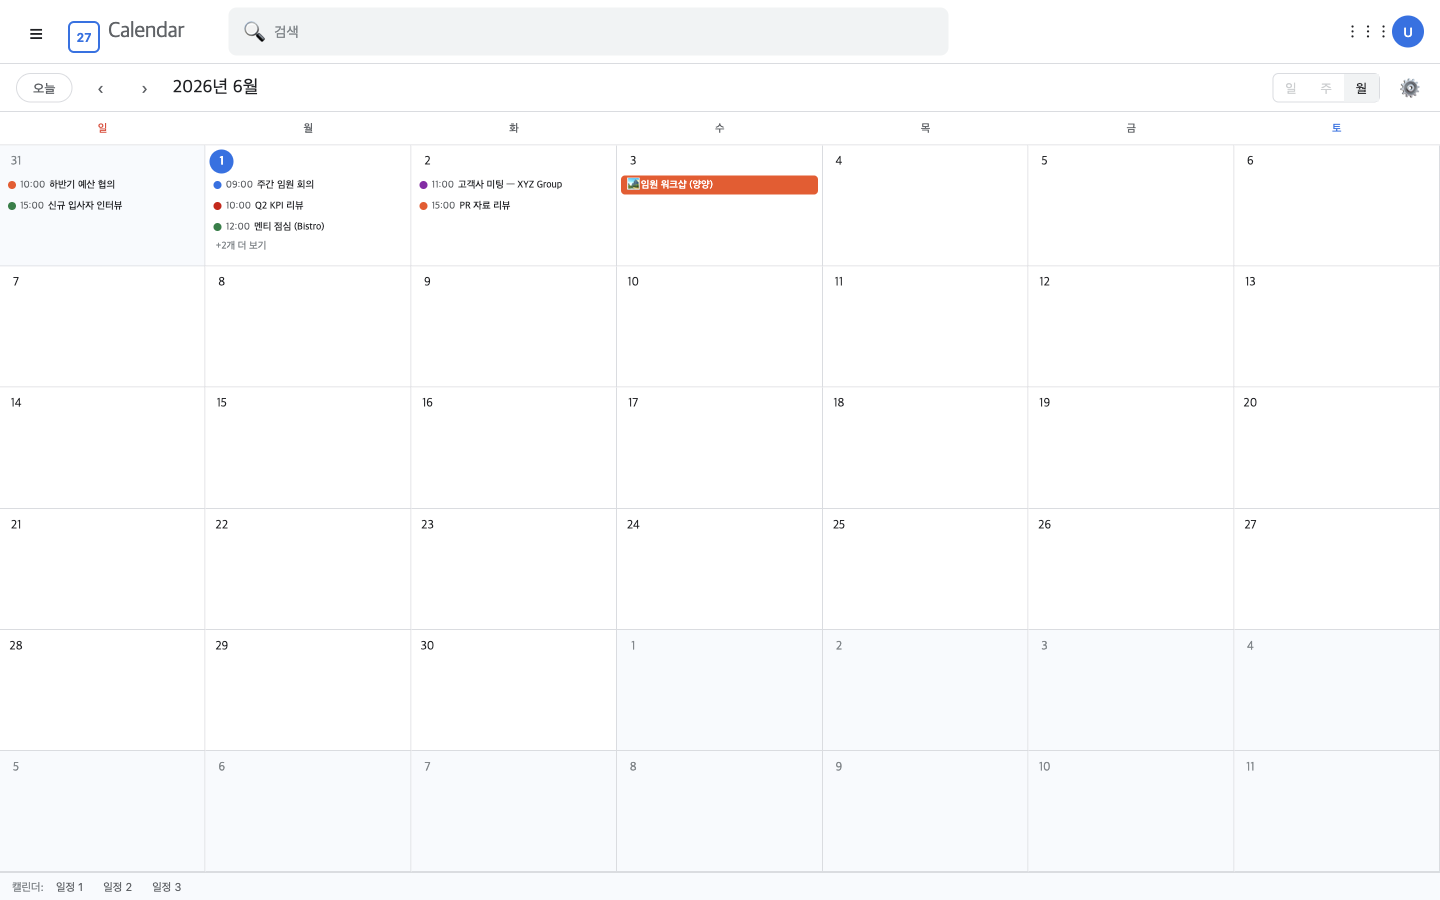
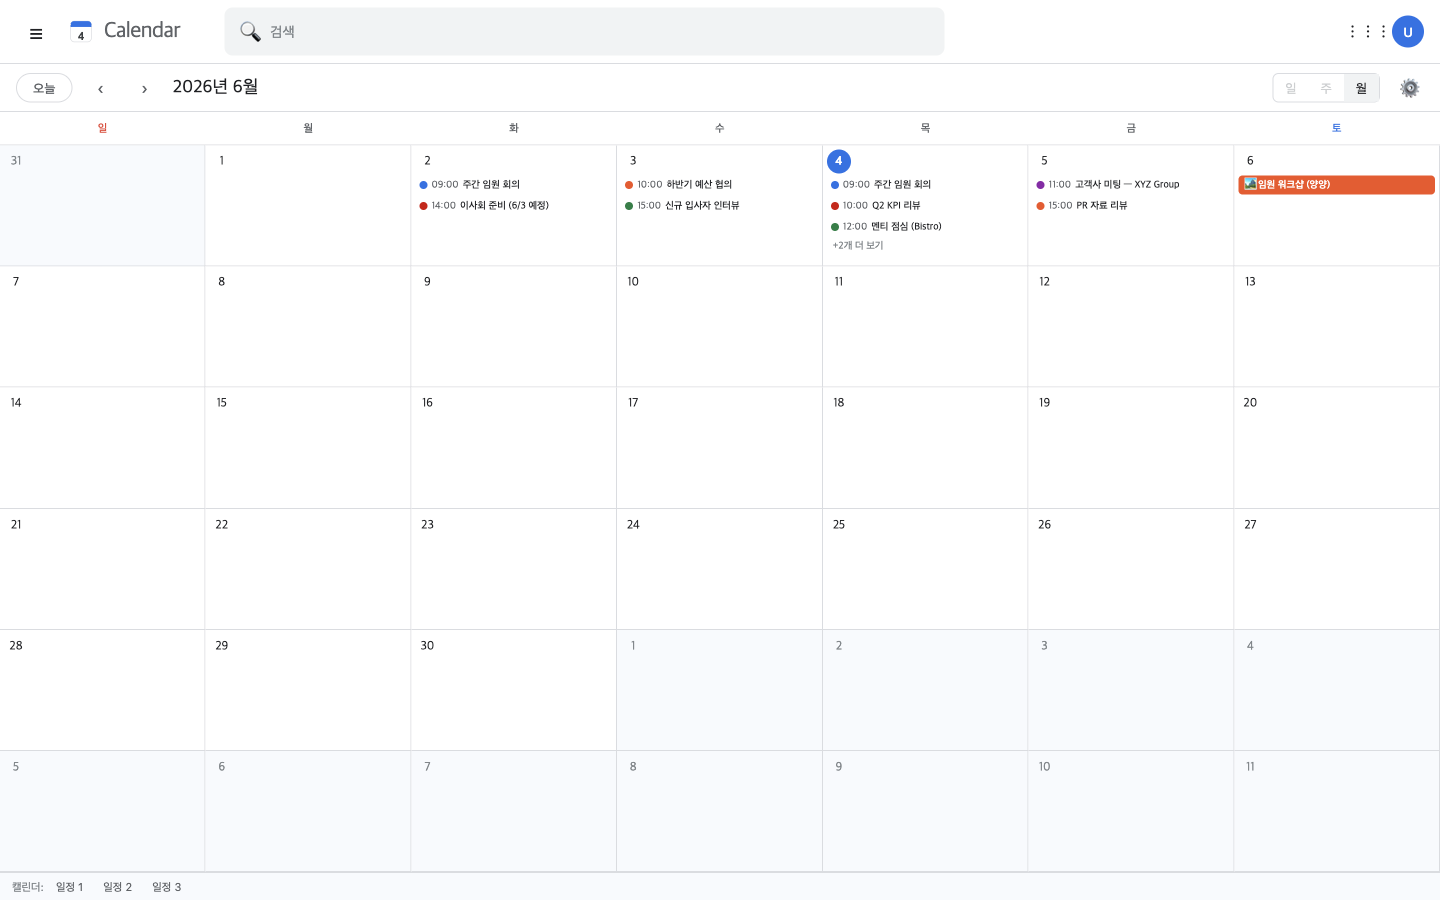
docs: sync CHANGELOG + screenshots from mollae v0.9.0

diff --git a/docs/CHANGELOG.md b/docs/CHANGELOG.md
@@ -6,6 +6,75 @@ Mollae (molstagram) 의 버전별 변경사항. 최신순.
 
 ---
 
+## v0.9 — Slack 위장 (6번째 disguise) + Gmail·Calendar 로고 폴리시 (2026-06)
+
+여섯 번째 disguise **Slack** 추가. Terminal(v0.6)·Gmail(v0.8) 의 단일 disguise
+사이클 패턴을 그대로 따름. Slack 은 Google 제품이 아니므로 `disguises/slack/`
+standalone 디렉토리 + 자체 `--sl-*` CSS 변수(어버진 사이드바)로 구성 — Terminal 과
+같은 비의존 패턴. 타겟 페르소나: **메신저 헤비 직군 (대부분의 사무직)**.
+
+### SL0+SL1 — DisguiseId 확장·전 wiring + chrome 4종 정교화
+- `DisguiseId`: `... | 'slack'` (총 6종). `scenarios` / `customScenarioIds` /
+  `Notes` / `favoriteScenarios` 모두 slack 슬롯 추가. 구버전 settings 는 default
+  spread 로 자동 마이그레이션 (메모·CSV·PIN 보존).
+- 6종 분기 갱신: 설정 위장 dropdown(+hint·즐겨찾기 라벨) / MemoSearch 필터 chip·
+  배지·시나리오 옵션 / LockScreen primaryTitle / ShortcutHelpModal / App Cmd+P 체인 /
+  toast 라벨.
+- chrome 4종 (`disguises/slack/`):
+  - **SlackTitlebar** — 어버진 슬림 드래그 바 (scenario-agnostic)
+  - **SlackToolbar** — 상단 전역 검색바, activeSheetId 구독으로 활성 워크스페이스명 동기화
+  - **SlackBody** — 워크스페이스 rail + 접이식 채널 사이드바(presence·멘션 배지) +
+    메시지 pane(날짜 구분선·메시지 그룹핑·hover 액션·리액션·스레드·봇 첨부 카드) + composer
+  - **SlackStatusBar** — 연결 상태 + 워크스페이스(시트) 전환 + ⌘P 힌트
+
+### SL2 — 시나리오 4종 + dateShift
+| id | 워크스페이스 | 페르소나 |
+|---|---|---|
+| startup-team | Pretzel Labs | 스타트업 전직군 (캐주얼) |
+| corporate-team | 한빛커머스 | 대기업 사무직·매니저 (공지·결재·@멘션) |
+| dev-team | Acme Eng | 개발자·데브옵스 (GitHub/CI/Sentry/Argo 봇 첨부) |
+| remote-agency | Driftwood Studio | 원격·에이전시 (분산팀·비동기·외부 게스트) |
+
+Calendar/Gmail 의 CAL2.1 dateShift 와 동일 패턴(slack-local, google 비의존) —
+anchorDateIso↔today diff 만큼 모든 timeIso 를 shift, `(id, todayKey)` 캐시.
+
+### SL3 — Boss overlay(허들) + Cmd+P Quick Switcher
+- **SlackBossOverlay**: 풀스크린 가짜 허들(음성통화). `{workspace} · 허들 · #channel`
+  + mm:ss 라이브 타이머, 참가자 그리드(봇 제외 사람 작성자 + 나, 한 명 speaking ring),
+  컨트롤 바 + 빨간 나가기.
+- **SlackQuickSwitcher** (Cmd+P): Slack Cmd+K 풍 — 전 시나리오 채널·메시지 fuzzy
+  검색 + 시나리오 점프. App 의 printPreview 체인에 slack 분기 연결.
+
+### SL4 — 메시지 메모 dialog
+- **SlackMessageDialog**: 메시지 더블클릭(또는 hover 📝) → Slack 스레드 풍 모달 +
+  메모 textarea. key `MSG<id>`, `notes['slack'][scenario]`. Cmd+Enter/Tab/blur/Esc/
+  바깥 클릭 저장. 메모 있는 행 노랑 하이라이트. focusCell `MSG<id>` 매칭 시 자동 오픈
+  (MemoSearch 점프).
+
+### Gmail·Calendar 헤더 로고 폴리시
+헤더 로고가 워드마크와 따로 노는(높이·정렬·디자인) 문제 수정:
+- GoogleHeader 의 `fontSize:28` 로고 래퍼 제거 → 로고 SVG 자체 크기로 수직 중앙 정렬
+- Gmail: 무지개 그라디언트 'M' 박스 → 흰 봉투 + 4색 'M' SVG
+- Calendar: 두꺼운 파란 외곽선 '27'(하드코딩) → 흰 카드 + 파란 헤더 스트립 + 오늘 날짜(동적) SVG
+
+### 마이그레이션 안전성
+v0.8.x → v0.9 자동 — 누락된 slack 슬롯(scenarios/customScenarioIds/notes/
+favoriteScenarios)이 기본값으로 채워짐. 메모·CSV·시트 매핑·PIN 보존. backup
+roundtrip(scripts/verify-backup-roundtrip.mjs) 은 6종 환경에서도 disguise-agnostic
+설계로 통과.
+
+### v0.4 → v0.9 disguise 라인업
+| disguise | persona | v |
+|---|---|---|
+| Excel | 사무직·마케팅 | v0.1 |
+| VSCode | 개발자 | v0.4 |
+| Terminal | 데브옵스·SRE | v0.6 |
+| Google Calendar | 사무직·PM·영업 | v0.8 |
+| Gmail | 매니저·CS·세일즈 | v0.8 |
+| **Slack** | 메신저 헤비 직군 | **v0.9** |
+
+---
+
 ## v0.8.6 — macOS "손상됨" 차단 hotfix (ad-hoc 서명) (2026-06)
 
 Apple Silicon 사용자가 설치 시 **"‘Mollae’은(는) 손상되었기 때문에 열 수 없습니다"**
